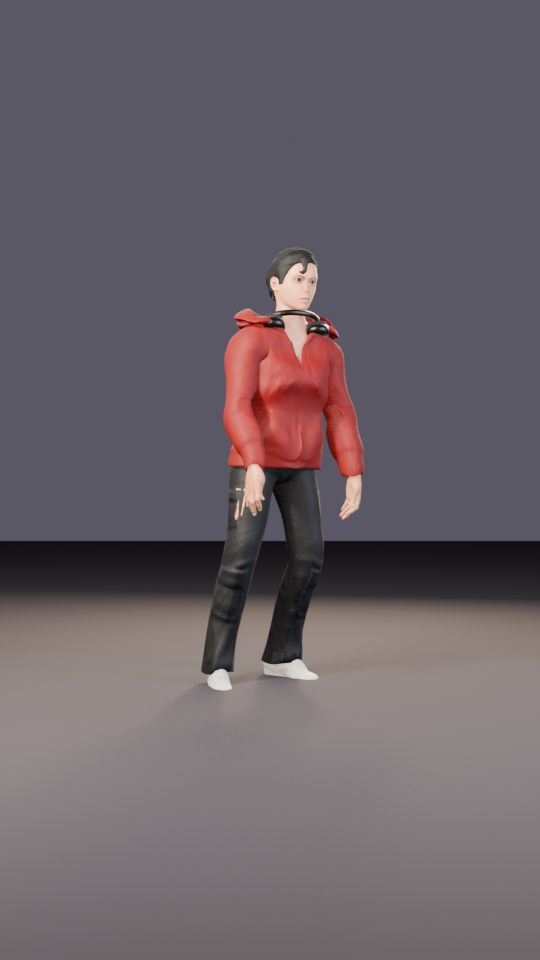
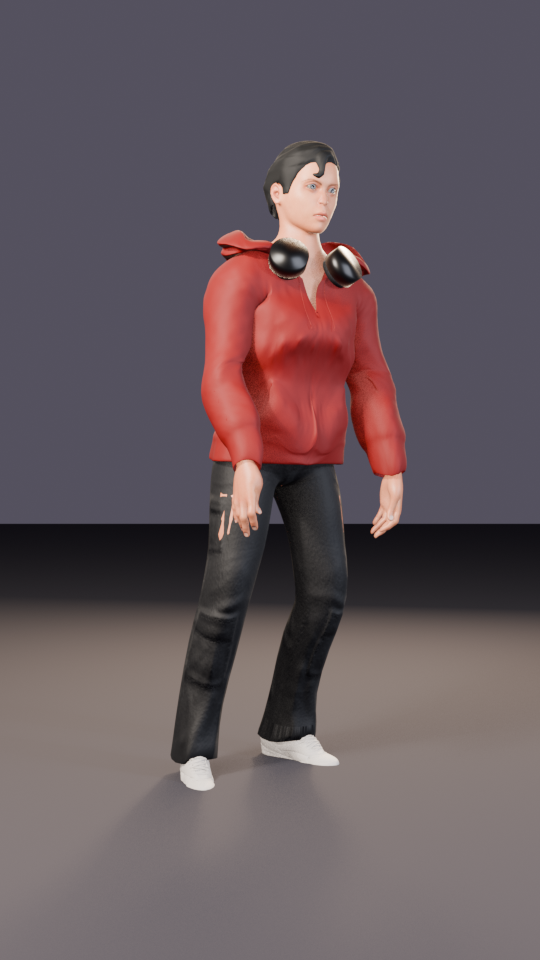
style_lab: warmer skin, glossy eyes, stronger expressions, headphones, richer bedroom
Claude-Session: https://claude.ai/code/session_0195jcA68rZXhAyskUgtU8Q6

Changed region(s): [[0.0, 0.125, 1.0, 0.8438]]

diff --git a/blender/style_lab/arian_board.py b/blender/style_lab/arian_board.py
@@ -33,7 +33,7 @@ STYLE.update({"l-eye-scale-incr": 1.0, "r-eye-scale-incr": 1.0, "head-scale-vert
               "nose-scale-horiz-decr": 0.7, "mouth-scale-horiz-decr": 0.2})
 cast.STYLE = STYLE
 cast.CAST["arian"] = dict(cast.CAST["arian"], age=0.42, height=0.55, weight=0.4,
-                          hair="culturalibre_hair_14", hair_col=(0.035, 0.025, 0.02), brow="eyebrow002",
+                          skin_tint=(0.86, 0.6, 0.46), hair="culturalibre_hair_14", hair_col=(0.035, 0.025, 0.02), brow="eyebrow002",
                           clothes={"elvs_hooded_sweat_jacket1": (0.55, 0.06, 0.07),
                                    "cortu_cargo_pants": (0.07, 0.07, 0.08),
                                    "culturalibre_sneakers": (0.92, 0.9, 0.88)})
@@ -47,16 +47,24 @@ sc.frame_set(1)
 bpy.context.view_layer.update()
 neck = ar.rig.matrix_world @ ar.rig.pose.bones["neck_01"].head
 parts = []
-bpy.ops.mesh.primitive_torus_add(major_radius=0.105, minor_radius=0.012, location=neck + Vector((0, 0.0, -0.02)))
+bpy.ops.mesh.primitive_torus_add(major_radius=0.1, minor_radius=0.014, location=neck + Vector((0, 0.01, -0.035)),
+                                  major_segments=40)
 band = bpy.context.object
-band.scale = (1.05, 0.9, 1.0)
+band.scale = (1.05, 0.95, 1.0)
+band.rotation_euler.x = math.radians(-18)       # dips towards the chest at the front, sits high on the nape
+import bmesh
+bm = bmesh.new()
+bm.from_mesh(band.data)
+bmesh.ops.delete(bm, geom=[v for v in bm.verts if v.co.y < -0.035], context="VERTS")   # open at the front
+bm.to_mesh(band.data)
+bm.free()
 band.data.materials.append(m_hp)
 parts.append(band)
-for sx in (-1, 1):   # cups lie on the collarbones, facing up
-    c = P.cyl(neck + Vector((sx * 0.1, -0.035, -0.075)), neck + Vector((sx * 0.1, -0.035, -0.045)), 0.045, m_hp, "Cup", 24)
-    s = P.cyl(neck + Vector((sx * 0.1, -0.035, -0.045)), neck + Vector((sx * 0.1, -0.035, -0.03)), 0.04, m_cush,
-              "Cushion", 24)
-    parts += [c, s]
+for sx in (-1, 1):   # cups hang at the front of the neck, facing forward/out
+    a = neck + Vector((sx * 0.085, -0.075, -0.085))
+    d = Vector((sx * 0.35, -1.0, 0.25)).normalized()
+    parts.append(P.cyl(a - d * 0.02, a + d * 0.02, 0.05, m_hp, "Cup", 28))
+    parts.append(P.cyl(a - d * 0.035, a - d * 0.02, 0.043, m_cush, "Cushion", 28))
 for o in parts:
     bpy.ops.object.shade_smooth() if False else None
     MT.attach(o, ar.rig, "neck_01")
@@ -73,6 +81,16 @@ for m in bpy.data.materials:
         m.node_tree.links.new(s.links[0].from_socket, h.inputs["Color"])
         m.node_tree.links.new(h.outputs[0], s)
 
+for o in ar.parts.get("Eyes", []):
+    for slot in o.material_slots:
+        b = next((n for n in slot.material.node_tree.nodes if n.type == "BSDF_PRINCIPLED"), None)
+        if b:
+            b.inputs["Roughness"].default_value = 0.04
+            b.inputs["Coat Weight"].default_value = 1.0
+            b.inputs["Coat Roughness"].default_value = 0.02
+for kb in ar.keys.values():
+    kb.slider_max = 2.0
+
 # ------------------------------------------------------------------ render setup
 sc.render.engine = "BLENDER_EEVEE"
 sc.eevee.taa_render_samples = 48
@@ -80,7 +98,7 @@ for prop, v in (("use_raytracing", True), ("use_shadows", True), ("use_fast_gi",
     if hasattr(sc.eevee, prop):
         setattr(sc.eevee, prop, v)
 sc.view_settings.view_transform = "AgX"
-sc.view_settings.exposure = 0.3
+sc.view_settings.exposure = 0.1
 sc.render.image_settings.file_format = "PNG"
 world = bpy.data.worlds.new("W")
 sc.world = world
@@ -129,26 +147,26 @@ if PART == "char":
         ar.rig.rotation_euler.z = math.radians(ang)
         ar.rig.keyframe_insert("rotation_euler", index=2, frame=20)
         sc.frame_set(20)
-        shot(os.path.join(OUT, f"board_turn_{i}.png"), (0, -5.2, hz * 0.55), (0, 0, hz * 0.52), 50, 540, 960)
+        shot(os.path.join(OUT, f"board_turn_{i}.png"), (0, -3.6, hz * 0.6), (0, 0, hz * 0.52), 50, 540, 960)
     ar.rig.rotation_euler.z = math.radians(12)
     ar.rig.keyframe_insert("rotation_euler", index=2, frame=20)
     sc.frame_set(20)
     head = ar.rig.matrix_world @ ar.rig.pose.bones["head"].head + Vector((0, 0, 0.07))
-    cam_d.dof.use_dof = True
-    cam_d.dof.focus_distance = 0.75
-    cam_d.dof.aperture_fstop = 2.0
+    cam_d.dof.use_dof = False
     faces = {
-        "happy": dict(mouth_corner_puller=1.0, mouth_elevation=0.3, eye_SIDE_slit=0.35, eyebrows_SIDE_extern_up=0.4),
-        "surprised": dict(mouth_open=0.8, eye_SIDE_opened_up=1.0, eyebrows_SIDE_up=1.0),
-        "sad": dict(eyebrows_SIDE_inner_up=1.0, mouth_depression=0.8, eye_SIDE_slit=0.25),
-        "angry": dict(eyebrows_SIDE_down=1.0, mouth_compression=0.6, nose_SIDE_elevation=0.4, eye_SIDE_slit=0.3),
-        "scared": dict(eyebrows_SIDE_inner_up=1.0, eyebrows_SIDE_up=0.5, eye_SIDE_opened_up=0.9, mouth_open=0.35,
-                       mouth_retraction=0.5),
+        "happy": dict(mouth_corner_puller=1.6, mouth_elevation=0.4, mouth_open=0.25, eye_SIDE_slit=0.5,
+                      eyebrows_SIDE_extern_up=0.6),
+        "surprised": dict(mouth_open=1.3, eye_SIDE_opened_up=1.6, eyebrows_SIDE_up=1.8, eyebrows_SIDE_inner_up=0.6),
+        "sad": dict(eyebrows_SIDE_inner_up=1.8, mouth_depression=1.5, eye_SIDE_slit=0.45, mouth_compression=0.4),
+        "angry": dict(eyebrows_SIDE_down=1.9, mouth_compression=1.0, mouth_retraction=0.6, nose_SIDE_elevation=0.9,
+                      eye_SIDE_slit=0.5),
+        "scared": dict(eyebrows_SIDE_inner_up=1.8, eyebrows_SIDE_up=1.0, eye_SIDE_opened_up=1.6, mouth_open=0.7,
+                       mouth_retraction=1.0),
     }
     for name, v in faces.items():
         keys(**v)
-        shot(os.path.join(OUT, f"board_face_{name}.png"), head + Vector((0.12, -0.72, 0.0)), head + Vector((0, 0, -0.02)),
-             85, 480, 480)
+        shot(os.path.join(OUT, f"board_face_{name}.png"), head + Vector((0.1, -0.62, 0.0)), head + Vector((0, 0, -0.01)),
+             85, 640, 640)
 
 if PART == "room":
     # cosy bedroom: lilac-blue walls, wooden shelves with toys, desk with a monitor, bed with a navy blanket,
@@ -160,10 +178,10 @@ if PART == "room":
     m_navy = P.mat("Blanket", (0.08, 0.12, 0.32), 0.95)
     m_sheet = P.mat("Sheet", (0.85, 0.85, 0.9), 0.9)
     m_curt = P.mat("Curtain", (0.12, 0.25, 0.5), 0.95)
-    m_sky = P.emit("Sky", (1.0, 0.85, 0.65), 3.0)
+    m_sky = P.emit("Sky", (1.0, 0.62, 0.35), 4.0)
     m_dark = P.mat("Dark", (0.03, 0.03, 0.035), 0.3)
     m_screen = P.emit("Screen", (0.35, 0.55, 0.9), 1.5)
-    m_rug = P.mat("Rug", (0.6, 0.55, 0.5), 0.95)
+    m_rug = P.mat("Rug", (0.75, 0.55, 0.3), 0.95)
     m_plant = P.mat("Leaf", (0.15, 0.45, 0.15), 0.7)
     m_pot = P.mat("Pot", (0.85, 0.85, 0.82), 0.5)
     m_lamp = P.emit("Lamp", (1.0, 0.75, 0.45), 8.0)
@@ -176,10 +194,10 @@ if PART == "room":
     for x in (-0.05, 1.85):
         P.box((x, 2.35, 1.4), (0.35, 0.08, 2.6), m_curt, "Curtain")
     # bed along the left wall
-    P.box((-1.5, 1.0, 0.2), (1.6, 2.6, 0.4), m_wood, "Bed base")
-    P.box((-1.5, 1.0, 0.48), (1.5, 2.5, 0.16), m_sheet, "Mattress")
-    P.box((-1.5, 0.6, 0.58), (1.6, 1.7, 0.06), m_navy, "Blanket")
-    P.box((-1.5, 2.05, 0.65), (0.9, 0.35, 0.18), m_sheet, "Pillow")
+    P.box((-1.5, 1.0, 0.13), (1.6, 2.6, 0.26), m_wood, "Bed base", bevel=0.02)
+    P.box((-1.5, 1.0, 0.36), (1.5, 2.5, 0.2), m_sheet, "Mattress", bevel=0.05)
+    P.box((-1.5, 0.6, 0.47), (1.62, 1.7, 0.05), m_navy, "Blanket", bevel=0.02)
+    P.box((-1.5, 2.05, 0.54), (0.9, 0.35, 0.18), m_sheet, "Pillow", bevel=0.07)
     P.box((-1.5, 2.4, 0.9), (1.6, 0.08, 1.0), m_wood, "Headboard")
     # shelves with "toys" above the bed
     for z in (1.6, 2.05):
@@ -206,6 +224,28 @@ if PART == "room":
     P.box((0.2, 0.4, 0.008), (1.6, 1.2, 0.016), m_rug, "Rug")
     for x, c in ((0.1, (0.85, 0.45, 0.2)), (-0.2, (0.3, 0.5, 0.75))):
         P.box((x + 2.05, 2.44, 1.9), (0.4, 0.01, 0.55), P.mat(f"Poster{x}", c, 0.7), "Poster")
+    # extra life: bedside table + lamp, desk chair, string lights, stuffed toys, backpack, books, hanging plant
+    P.box((-0.45, 2.15, 0.25), (0.45, 0.4, 0.5), m_wood, "Bedside", bevel=0.01)
+    P.cyl((-0.45, 2.15, 0.5), (-0.45, 2.15, 0.75), 0.03, m_dark, "Bed lamp foot")
+    P.cyl((-0.45, 2.15, 0.72), (-0.45, 2.15, 0.9), 0.11, m_lamp, "Bed lamp")
+    P.box((1.75, 0.95, 0.45), (0.5, 0.5, 0.06), m_dark, "Chair seat", bevel=0.02)
+    P.box((1.75, 1.22, 0.75), (0.5, 0.06, 0.6), m_dark, "Chair back", bevel=0.02)
+    P.cyl((1.75, 0.95, 0.05), (1.75, 0.95, 0.42), 0.03, m_dark, "Chair post")
+    bulb = P.emit("Bulb", (1.0, 0.8, 0.45), 15.0)
+    for i in range(16):
+        x = -2.3 + i * 0.14
+        P.sphere((x, 2.43, 2.45 - 0.12 * math.sin(i / 15 * math.pi)), 0.018, bulb, "Bulb")
+    for i, (x, c) in enumerate(((-1.25, (0.85, 0.6, 0.35)), (-1.05, (0.5, 0.75, 0.9)))):
+        mt = P.mat(f"Plush{i}", c, 0.95)
+        P.sphere((x, 1.95, 0.62), 0.11, mt, "Plush body")
+        P.sphere((x, 1.95, 0.8), 0.085, mt, "Plush head")
+        for ex in (-0.05, 0.05):
+            P.sphere((x + ex, 1.95, 0.88), 0.03, mt, "Plush ear")
+    P.box((0.45, 1.9, 0.22), (0.35, 0.2, 0.44), P.mat("Backpack", (0.1, 0.1, 0.12), 0.8), "Backpack", bevel=0.05)
+    for i in range(4):
+        P.box((1.15 + i * 0.07, 0.45, 0.84), (0.05, 0.2, 0.15), P.mat(f"DBook{i}", cols[i], 0.7), "Desk book")
+    for i in range(5):
+        P.sphere((0.05 + 0.05 * math.sin(i), 2.3, 2.6 - 0.18 * i), 0.09 - 0.008 * i, m_plant, "Hanging leaf")
     # light: warm sunset through the window, lamps, cool fill
     P.area_light((0.9, 2.2, 1.6), (0, 0, 0.8), 260, 1.4, (1.0, 0.75, 0.5), name="Window")
     for loc, e in (((2.15, 0.6, 1.15), 25), ((-1.5, 2.1, 2.3), 35)):
@@ -215,7 +255,7 @@ if PART == "room":
         sc.collection.objects.link(o)
         o.location = loc
     P.area_light((0.5, -2.2, 2.3), (0, 1, 1), 110, 3.0, (0.75, 0.8, 1.0), name="Fill")
-    MC.apply(ar, sit, start=1, length=40, offset=(-0.82, 0.6, 0.45), facing=-105, in_place=True, step=1)
+    MC.apply(ar, sit, start=1, length=40, offset=(-0.82, 0.6, 0.22), facing=-105, in_place=True, step=1)
     MC.flush(ar)
     sc.frame_set(20)
     cam_d.dof.use_dof = True
